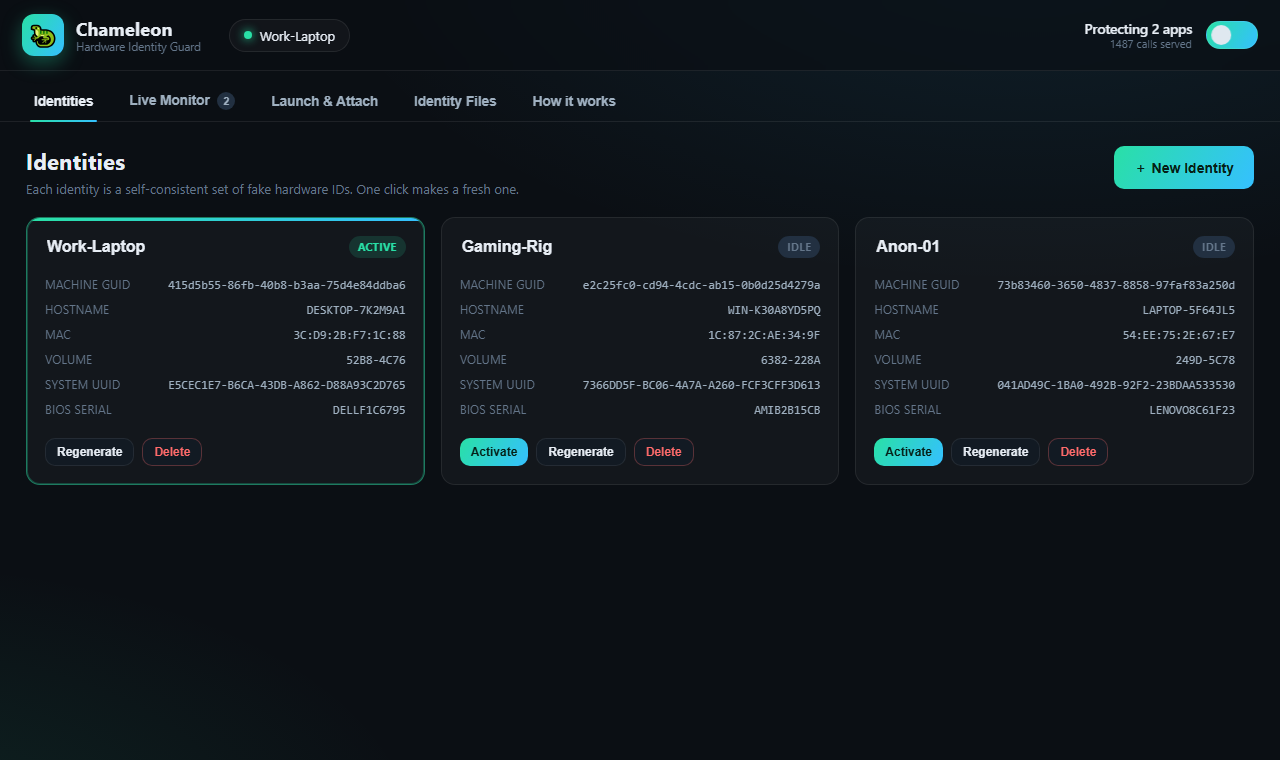
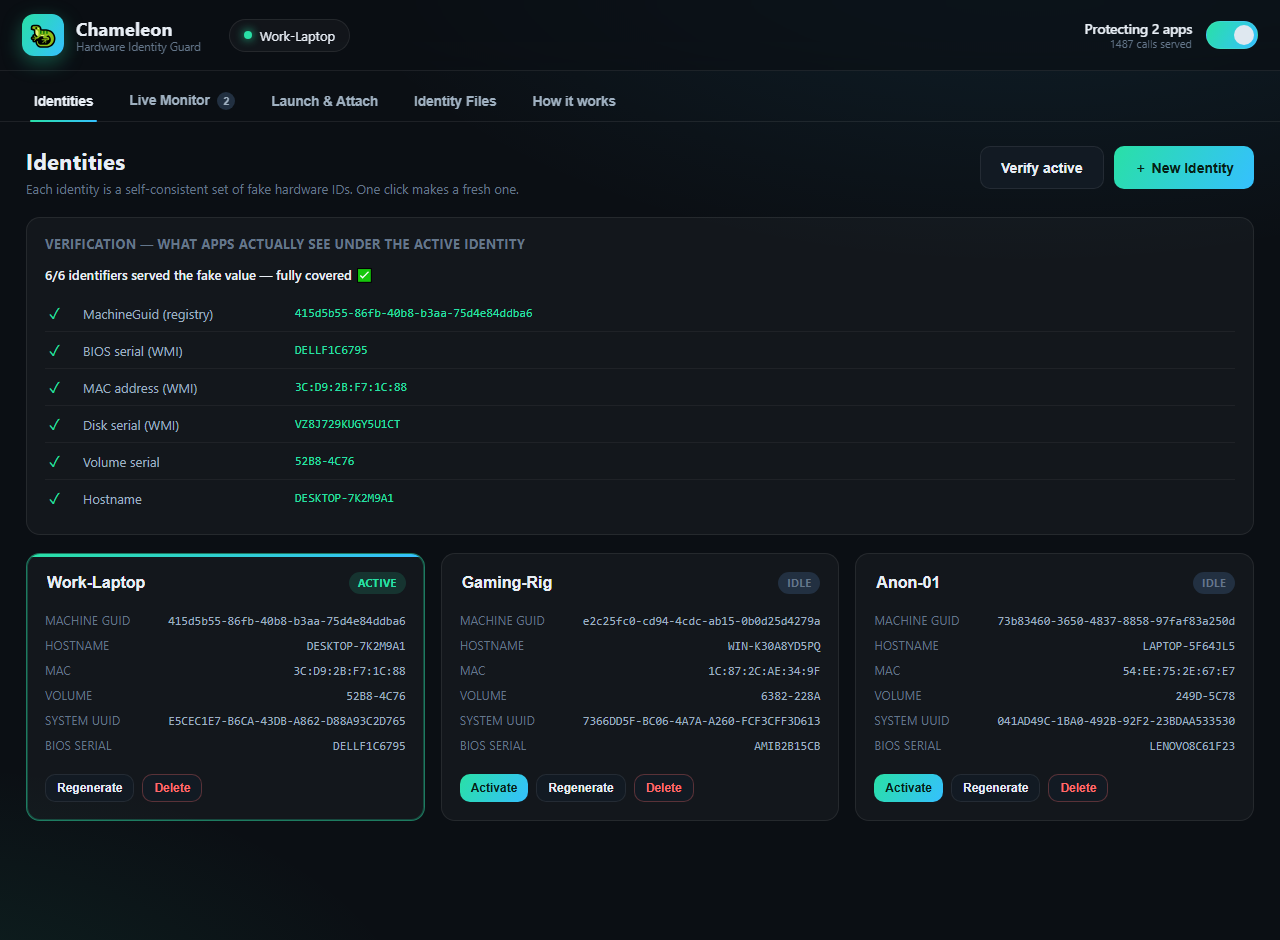
Refresh screenshots: Verify panel + Launch tab (CLI agents, auto-attach watcher)

diff --git a/README.md b/README.md
@@ -20,9 +20,13 @@ you choose* — and stops lying the moment you detach.
 
 ## Screenshots
 
-**Identities** — each profile is a self-consistent set of fake hardware IDs; one click generates a fresh one, one click activates it.
+**Identities** — each profile is a self-consistent set of fake hardware IDs; one click generates a fresh one, one click activates it. **Verify active** proves, per identifier, what apps actually receive.
 
 ![Identities](docs/identities.png)
+
+**Launch & Attach** — one-click guarded launch for detected AI CLIs and editors, attach-to-running, and an auto-attach watcher that instruments apps the moment they start.
+
+![Launch & Attach](docs/launch.png)
 
 **Live Monitor** — every hardware-ID call a protected app makes, in real time, with the real value it asked for and the value served back.
 
